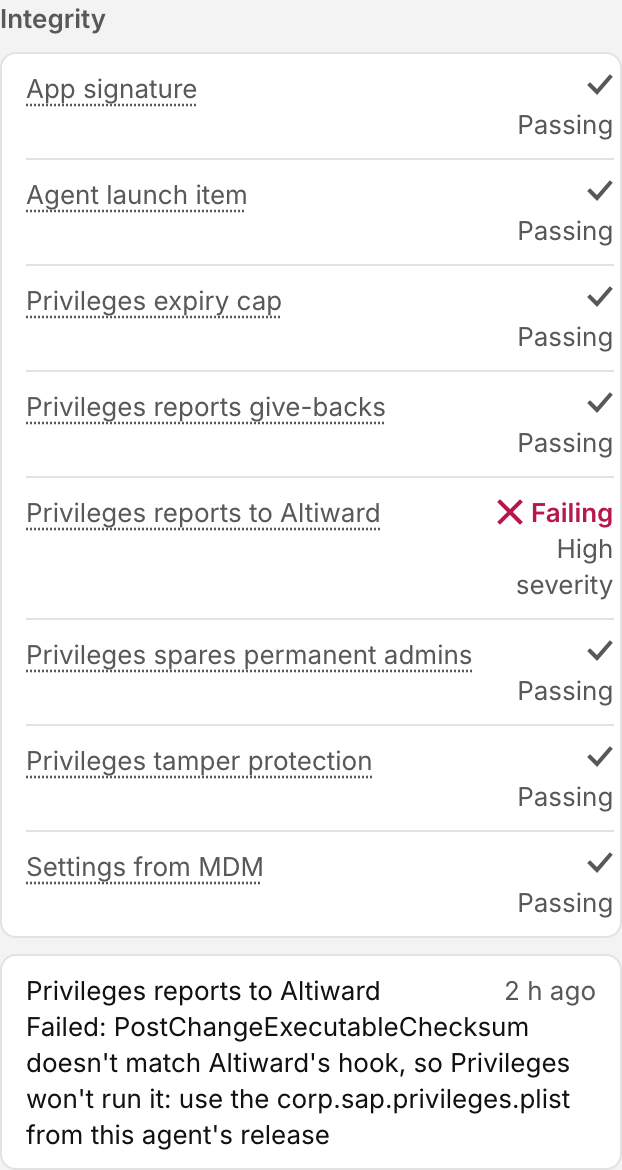
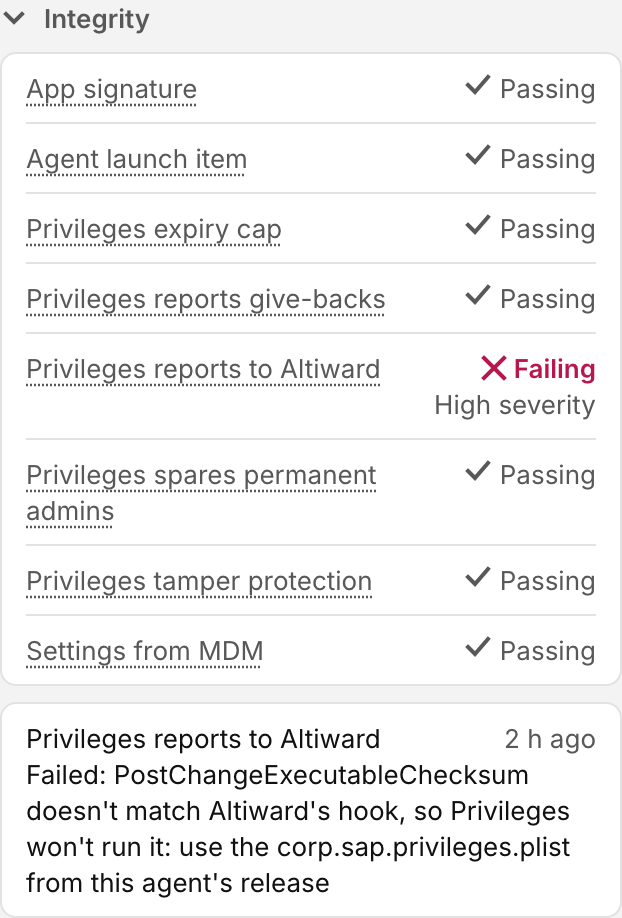
Fold a Mac's details in Fleet into sections
The Fleet inspector had grown long: admin group, permanent admins, every
integrity check, ten integrity alerts, agent and SAP Privileges details.
Each group is now a disclosure section with a one-line summary while
closed. The admin group starts open and the rest closed, the console
remembers which sections someone opens, and Integrity or Permanent admins
open by themselves when a check fails or a permanent admin is signed in.
Integrity alerts show the newest three, the rest behind Show all.

diff --git a/console/src/views/Fleet.tsx b/console/src/views/Fleet.tsx
@@ -1,7 +1,7 @@
-import { useMemo, useState } from "react";
+import { Fragment, useMemo, useState } from "react";
 import { useSearchParams } from "react-router";
 import type { Command, Device, PermanentUse } from "../api";
-import { Banner, Details, Empty, Explain, Missing, RoleNote, SearchField, Segmented, Toolbar } from "../components/Chrome";
+import { Banner, Details, Empty, Explain, Missing, RoleNote, SearchField, Section, Segmented, Toolbar } from "../components/Chrome";
 import { ClaimedGlyph, CloseIcon, ElevatedGlyph, EndedGlyph, NotGrantedGlyph, VerifiedGlyph } from "../components/Icons";
 import { ConfirmSheet } from "../components/Sheet";
 import { StateBadge } from "../components/StateBadge";
@@ -40,6 +40,13 @@ const permanentUseContext = (u: PermanentUse) => [
 ].filter(Boolean).join(" · ");
 /** Places the persistence snapshot couldn't read: changes there go unreported. */
 const blindSpots = (d: Device) => d.persistence_unreadable ?? [];
+/** Accounts named in a closed section's summary; more than this become a count. */
+const SUMMARY_NAMES = 3;
+const accounts = (names: string[]) => names.length <= SUMMARY_NAMES
+  ? names.join(", ")
+  : `${names.length} accounts`;
+/** Integrity alerts shown before "Show all". */
+const ALERTS_SHOWN = 3;
 
 /** Every Mac with its versions, admin group and last check-in. */
 export function FleetView() {
@@ -263,8 +270,9 @@ function DeviceInspector({ device: d, severities, onClose }: {
       ) : <RoleNote>Revoking admin rights needs the operator role.</RoleNote>)}
       {notice && <div style={{ margin: "8px -16px 0" }}><Banner kind={notice.kind}>{notice.text}</Banner></div>}
 
-      <div className="group" role="group" aria-labelledby="admin-group-title">
-        <h3 id="admin-group-title">Admin group</h3>
+      <Fragment key={d.serial}>
+      <Section id="admin-group" title="Admin group" defaultOpen
+        summary={d.admin_members.length === 0 ? "No one" : accounts(d.admin_members)}>
         <div className="box">
           {d.admin_members.length === 0 && <p className="secondary" style={{ padding: "6px 0" }}>No one is an admin.</p>}
           <dl>
@@ -280,11 +288,12 @@ function DeviceInspector({ device: d, severities, onClose }: {
             ])}
           </dl>
         </div>
-      </div>
+      </Section>
 
       {d.permanent_admins && (
-        <div className="group" role="group" aria-labelledby="permanent-admins-title">
-          <h3 id="permanent-admins-title">Permanent admins</h3>
+        <Section id="permanent-admins" title="Permanent admins"
+          summary={d.permanent_admins.length === 0 ? "None set" : accounts(d.permanent_admins)}
+          attention={(d.recent_permanent_uses ?? []).some((u) => u.state === "started")}>
           <div className="box">
             {d.permanent_admins.length === 0
               ? <p className="secondary" style={{ padding: "6px 0" }}>None set.</p>
@@ -326,12 +335,12 @@ function DeviceInspector({ device: d, severities, onClose }: {
             From the Mac’s configuration profile. Change them in your MDM: Altiward reports this setting made any other
             way as tampering, and never removes these accounts’ admin rights. It records each time someone uses one.
           </p>
-        </div>
+        </Section>
       )}
 
       {(d.integrity || d.persistence_unreadable || (d.recent_tamper ?? []).length > 0) && (
-        <div className="group" role="group" aria-labelledby="integrity-title">
-          <h3 id="integrity-title">Integrity</h3>
+        <Section id="integrity" title="Integrity" summary={<IntegritySummary device={d} />}
+          attention={hasFailingCheck(d) || blindSpots(d).length > 0}>
           {(d.integrity || d.persistence_unreadable) && (
             <div className="box">
               <dl>
@@ -366,24 +375,11 @@ function DeviceInspector({ device: d, severities, onClose }: {
               </dl>
             </div>
           )}
-          {(d.recent_tamper ?? []).length > 0 && (
-            <div className="box" style={{ marginTop: 8 }}>
-              <ul className="entries" aria-label="Recent integrity alerts">
-                {(d.recent_tamper ?? []).slice(0, 10).map((a) => (
-                  <li key={a.event_id}>
-                    <span>{integrityCheckLabel(a.check)}</span>
-                    <span className="secondary" title={dateTime(a.at)}>{relativeTime(a.at).toLowerCase()}</span>
-                    <span className="detail">{tamperStateLabel(a.state, a.check)}{a.problem && `: ${a.problem}`}</span>
-                  </li>
-                ))}
-              </ul>
-            </div>
-          )}
-        </div>
+          {(d.recent_tamper ?? []).length > 0 && <IntegrityAlerts device={d} />}
+        </Section>
       )}
 
-      <div className="group">
-        <h3>Agent</h3>
+      <Section id="agent" title="Agent" summary={d.agent_version}>
         <Details rows={[
           ["Agent version", d.agent_version],
           ["Hardware UUID", <span key="hw" className="data">{d.hardware_uuid}</span>],
@@ -391,10 +387,9 @@ function DeviceInspector({ device: d, severities, onClose }: {
           ["Last check-in", dateTime(lastCheckIn(d))],
           ["Events queued", d.queue_depth == null ? <Missing key="queued">Not reported</Missing> : String(d.queue_depth)],
         ]} />
-      </div>
+      </Section>
 
-      <div className="group">
-        <h3>SAP Privileges</h3>
+      <Section id="privileges" title="SAP Privileges" summary={d.privileges_version ?? "Not installed"}>
         <Details rows={[
           ["Version", d.privileges_version ?? "Not installed"],
           ["Reports to Altiward", yesNo(p.post_change_hook_configured)],
@@ -404,7 +399,8 @@ function DeviceInspector({ device: d, severities, onClose }: {
           ["Daily admin budget", p.admin_budget_minutes != null
             ? `${p.admin_budget_minutes} min` : <Missing key="budget">Not set</Missing>],
         ]} />
-      </div>
+      </Section>
+      </Fragment>
 
       {target !== undefined && (
         <ConfirmSheet
@@ -415,5 +411,44 @@ function DeviceInspector({ device: d, severities, onClose }: {
           confirm="Revoke" destructive busy={busy} onConfirm={revoke} onCancel={() => setTarget(undefined)} />
       )}
     </aside>
+  );
+}
+
+/** The Integrity section's summary while closed: how many checks fail, or that all pass. */
+function IntegritySummary({ device: d }: { device: Device }) {
+  const checks = Object.values(d.integrity ?? {});
+  const failing = checks.filter((passing) => !passing).length;
+  const unread = blindSpots(d).length;
+  if (failing > 0) return <span className="tag denied"><NotGrantedGlyph /> {failing} failing</span>;
+  if (unread > 0) return <span className="tag attention"><NotGrantedGlyph /> Can’t read {unread === 1 ? "1 place" : `${unread} places`}</span>;
+  const total = checks.length + (d.persistence_unreadable ? 1 : 0);
+  if (total === 0) return null;
+  return <><VerifiedGlyph /> {total === 1 ? "Passing" : `All ${total} passing`}</>;
+}
+
+/** The newest integrity alerts, with the rest of the last ten behind "Show all". */
+function IntegrityAlerts({ device: d }: { device: Device }) {
+  const [all, setAll] = useState(false);
+  const alerts = (d.recent_tamper ?? []).slice(0, 10);
+  const shown = all ? alerts : alerts.slice(0, ALERTS_SHOWN);
+  return (
+    <div className="box" style={{ marginTop: 8 }}>
+      <ul className="entries" aria-label="Recent integrity alerts">
+        {shown.map((a) => (
+          <li key={a.event_id}>
+            <span>{integrityCheckLabel(a.check)}</span>
+            <span className="secondary" title={dateTime(a.at)}>{relativeTime(a.at).toLowerCase()}</span>
+            <span className="detail">{tamperStateLabel(a.state, a.check)}{a.problem && `: ${a.problem}`}</span>
+          </li>
+        ))}
+      </ul>
+      {alerts.length > ALERTS_SHOWN && (
+        <div className="more">
+          <button type="button" className="button" aria-expanded={all} onClick={() => setAll(!all)}>
+            {all ? "Show fewer" : `Show all ${alerts.length}`}
+          </button>
+        </div>
+      )}
+    </div>
   );
 }

diff --git a/console/src/views/Fleet.test.tsx b/console/src/views/Fleet.test.tsx
@@ -63,6 +63,56 @@ describe("Fleet", () => {
     expect(within(group).getByText("Persistence check")).toHaveAccessibleDescription(/SSH keys/);
   });
 
+  it("folds away passing checks and details, and opens failing checks", async () => {
+    const fine: Device = { ...mac, integrity: { code_signature: true, settings_managed: true } };
+    const failing: Device = { ...mac, serial: "C02FAIL00001", integrity: { code_signature: true, settings_managed: false } };
+    render(<ApiContext.Provider value={fakeApi({ devices: vi.fn(async () => [fine, failing]) })}><MemoryRouter><FleetView /></MemoryRouter></ApiContext.Provider>);
+    await userEvent.click(await screen.findByText("C02ZM1BBMD6T"));
+    let integrity = screen.getByRole("group", { name: "Integrity" });
+    expect(integrity).not.toHaveAttribute("open");
+    expect(within(integrity).getByText(/All 2 passing/)).toBeVisible();
+    expect(within(integrity).getByText("App signature")).not.toBeVisible();
+    expect(screen.getByRole("group", { name: "Admin group" })).toHaveAttribute("open");
+    const agent = screen.getByRole("group", { name: "Agent" });
+    expect(agent).not.toHaveAttribute("open");
+    expect(agent.querySelector(".section-summary")).toHaveTextContent("0.1.0");
+    expect(within(agent).getByText("Hardware UUID")).not.toBeVisible();
+
+    await userEvent.click(screen.getByText("C02FAIL00001"));
+    integrity = screen.getByRole("group", { name: "Integrity" });
+    expect(integrity).toHaveAttribute("open");
+    expect(within(integrity).getByText("Failing")).toBeVisible();
+  });
+
+  it("remembers which sections someone opens", async () => {
+    const other: Device = { ...mac, serial: "C02OTHER0001" };
+    render(<ApiContext.Provider value={fakeApi({ devices: vi.fn(async () => [mac, other]) })}><MemoryRouter><FleetView /></MemoryRouter></ApiContext.Provider>);
+    await userEvent.click(await screen.findByText("C02ZM1BBMD6T"));
+    await userEvent.click(within(screen.getByRole("group", { name: "Agent" })).getByText("Agent"));
+    expect(screen.getByRole("group", { name: "Agent" })).toHaveAttribute("open");
+    expect(screen.getByText("Hardware UUID")).toBeVisible();
+
+    await userEvent.click(screen.getByText("C02OTHER0001"));
+    expect(screen.getByRole("group", { name: "Agent" })).toHaveAttribute("open");
+    expect(JSON.parse(localStorage.getItem("altiward.sections")!)).toEqual({ agent: true });
+  });
+
+  it("shows the newest integrity alerts and the rest on request", async () => {
+    const at = (h: number) => new Date(Date.now() - h * 3600_000).toISOString();
+    const noisy: Device = {
+      ...mac,
+      integrity: { privileges_hook: true },
+      recent_tamper: [1, 2, 3, 4, 5].map((h) => ({ event_id: `t${h}`, at: at(h), check: "privileges_hook", state: "restored" as const, problem: "" })),
+    };
+    render(<ApiContext.Provider value={fakeApi({ devices: vi.fn(async () => [noisy]) })}><MemoryRouter><FleetView /></MemoryRouter></ApiContext.Provider>);
+    await userEvent.click(await screen.findByText("C02ZM1BBMD6T"));
+    const alerts = () => within(screen.getByRole("list", { name: "Recent integrity alerts" })).getAllByRole("listitem");
+    expect(alerts()).toHaveLength(3);
+    await userEvent.click(screen.getByRole("button", { name: "Show all 5" }));
+    expect(alerts()).toHaveLength(5);
+    expect(screen.getByRole("button", { name: "Show fewer" })).toHaveAttribute("aria-expanded", "true");
+  });
+
   it("puts a tamper alert's problem on a line of its own", async () => {
     const problem = "/Library/Application Support/Altiward/Altiward.app/Contents/MacOS/Altiward is not the hook";
     const tampered: Device = {

diff --git a/console/src/components/Chrome.tsx b/console/src/components/Chrome.tsx
@@ -1,5 +1,5 @@
-import { type ReactNode, useId, useLayoutEffect, useRef, useState } from "react";
-import { RefreshIcon, SearchIcon } from "./Icons";
+import { type ReactNode, useEffect, useId, useLayoutEffect, useRef, useState } from "react";
+import { DisclosureGlyph, RefreshIcon, SearchIcon } from "./Icons";
 
 export function Toolbar({ title, subtitle, children, onRefresh }: {
   title: string; subtitle?: string; children?: ReactNode; onRefresh?: () => void;
@@ -62,6 +62,47 @@ export function Details({ rows }: { rows: [string, ReactNode][] }) {
     <div className="box">
       <dl>{rows.map(([k, v]) => [<dt key={`${k}-t`}>{k}</dt>, <dd key={`${k}-d`}>{v}</dd>])}</dl>
     </div>
+  );
+}
+
+// Per browser, like the look: which inspector sections someone keeps open is a preference.
+const SECTIONS_KEY = "altiward.sections";
+
+function savedSections(): Record<string, boolean> {
+  try { return JSON.parse(localStorage.getItem(SECTIONS_KEY) ?? "{}") ?? {}; } catch { return {}; }
+}
+
+function saveSection(id: string, open: boolean) {
+  try { localStorage.setItem(SECTIONS_KEY, JSON.stringify({ ...savedSections(), [id]: open })); } catch { /* this visit only */ }
+}
+
+/** An inspector group that folds away like a macOS disclosure, showing `summary` beside its
+ *  title while closed. It opens as last left in this browser, or `defaultOpen`; with
+ *  `attention`, such as a failing check, it opens whatever was left, also when attention
+ *  arrives later, and closing it then isn't remembered. Key it by the inspector's subject so each one starts afresh. */
+export function Section({ id, title, summary, attention, defaultOpen = false, children }: {
+  id: string; title: string; summary?: ReactNode; attention?: boolean; defaultOpen?: boolean; children: ReactNode;
+}) {
+  const [open, setOpen] = useState(() => !!attention || (savedSections()[id] ?? defaultOpen));
+  // A check that starts failing while the section is on screen opens it too.
+  useEffect(() => { if (attention) setOpen(true); }, [attention]);
+  const titleId = `${id}-title`;
+  return (
+    // role="group" is a <details>'s own, spelt out for the screenshot scripts' selectors.
+    <details className="group section" role="group" open={open} aria-labelledby={titleId}
+      onToggle={(e) => {
+        const now = e.currentTarget.open;
+        if (now === open) return;
+        setOpen(now);
+        if (!attention) saveSection(id, now);
+      }}>
+      <summary>
+        <DisclosureGlyph />
+        <h3 id={titleId}>{title}</h3>
+        {!open && summary != null && <span className="section-summary">{summary}</span>}
+      </summary>
+      {children}
+    </details>
   );
 }
 

diff --git a/console/src/styles.css b/console/src/styles.css
@@ -288,6 +288,15 @@ tr[aria-selected="true"] .gauge .ceiling { background: var(--ink); }
 .role-note { color: var(--muted); font-size: 12px; line-height: 18px; margin: var(--space-3) 0 var(--space-1); }
 .group { margin-top: var(--space-6); }
 .group h3 { font-size: 13px; line-height: 18px; font-weight: 600; color: var(--muted); margin: 0 0 var(--space-2); }
+/* A group that folds away (Section): title and chevron on the left, a summary on the right
+   while closed. */
+.section > summary { display: flex; align-items: center; gap: var(--space-2); list-style: none; cursor: pointer; border-radius: var(--radius-sm); }
+.section > summary::-webkit-details-marker { display: none; }
+.section > summary svg { flex: none; color: var(--muted); transition: transform 120ms ease-out; }
+.section[open] > summary svg { transform: rotate(90deg); }
+.section > summary h3 { flex: 1; margin: 0; }
+.section[open] > summary { margin-bottom: var(--space-2); }
+.section-summary { color: var(--muted); font-size: 13px; line-height: 18px; text-align: right; min-width: 0; overflow-wrap: anywhere; }
 .box { background: var(--surface-100); border: 1px solid var(--hairline); border-radius: var(--radius-md); padding: 0 var(--space-3); }
 /* The label takes its full width when there is room and wraps between words when there
    isn't; the value keeps room for a short word, such as "Passing", whole. */
@@ -300,6 +309,7 @@ tr[aria-selected="true"] .gauge .ceiling { background: var(--ink); }
 .box .entries li { display: grid; grid-template-columns: 1fr auto; column-gap: var(--space-3); padding: var(--space-2) 0; border-bottom: 1px solid var(--hairline); }
 .box .entries li:last-child { border-bottom: none; }
 .box .entries .detail { grid-column: 1 / -1; overflow-wrap: anywhere; }
+.box > .more { border-top: 1px solid var(--hairline); padding: var(--space-2) 0; }
 .timeline { list-style: none; margin: 0; padding: 0; font-size: 13px; line-height: 18px; }
 .timeline li { display: grid; grid-template-columns: 14px 1fr; gap: var(--space-2); padding: var(--space-2) 0; border-bottom: 1px solid var(--hairline); }
 .timeline li:last-child { border-bottom: none; }

diff --git a/console/src/components/Icons.tsx b/console/src/components/Icons.tsx
@@ -25,6 +25,9 @@ export const UpdateGlyph = () => <svg {...base}><path d="M7 12V3M3 6l4-4 4 4" />
 /** Needs attention soon, such as a release that fixes a security problem. */
 export const AttentionGlyph = () => <svg {...base}><path d="M7 2v6M7 11v1" /></svg>;
 
+/** A section that folds away: points right while closed, down while open (styles.css). */
+export const DisclosureGlyph = () => <svg {...base}><path d="M5 3l4 4-4 4" /></svg>;
+
 export const OverviewIcon = () => <svg {...base}><path d="M2 2h4v4H2zM8 2h4v4H8zM2 8h4v4H2zM8 8h4v4H8z" /></svg>;
 export const SessionsIcon = () => <svg {...base}><path d="M2 3h10M2 7h10M2 11h6" /></svg>;
 export const FleetIcon = () => <svg {...base}><path d="M2 3h10v6H2zM0 12h14" /></svg>;

diff --git a/changelog.d/server/inspector-sections.changes.md b/changelog.d/server/inspector-sections.changes.md
@@ -1,0 +1,5 @@
+- A Mac's details in Fleet fold into sections. The admin group stays open; permanent
+  admins, integrity, agent and SAP Privileges show a one-line summary, such as "All 9
+  passing", until you open them, and the console remembers which you open. Integrity opens
+  by itself when a check fails, and permanent admins when one is signed in. Integrity
+  alerts show the newest three, with the rest of the last ten behind Show all.
